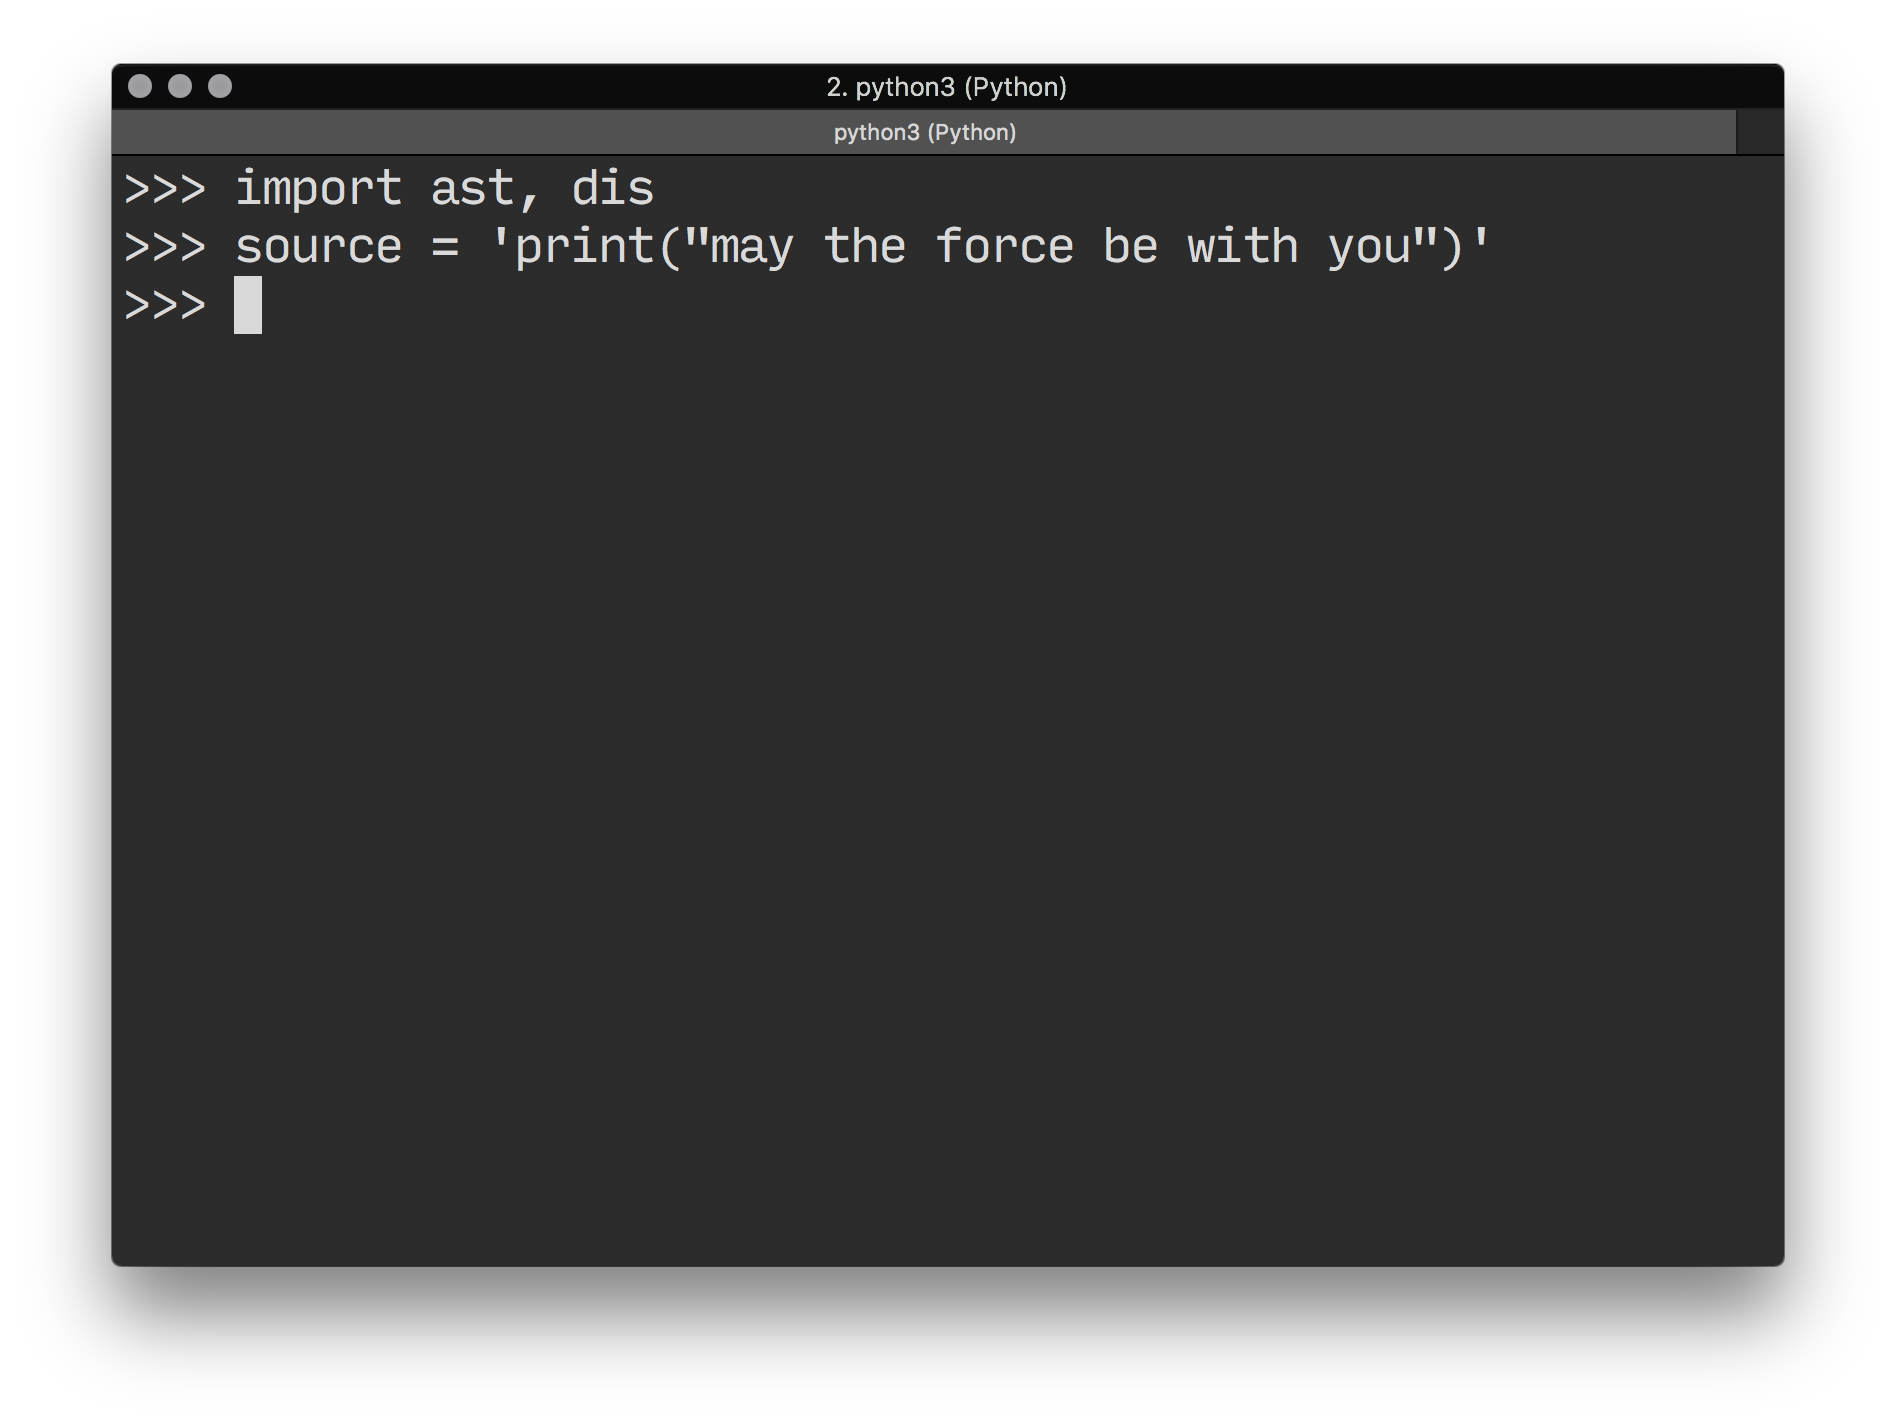
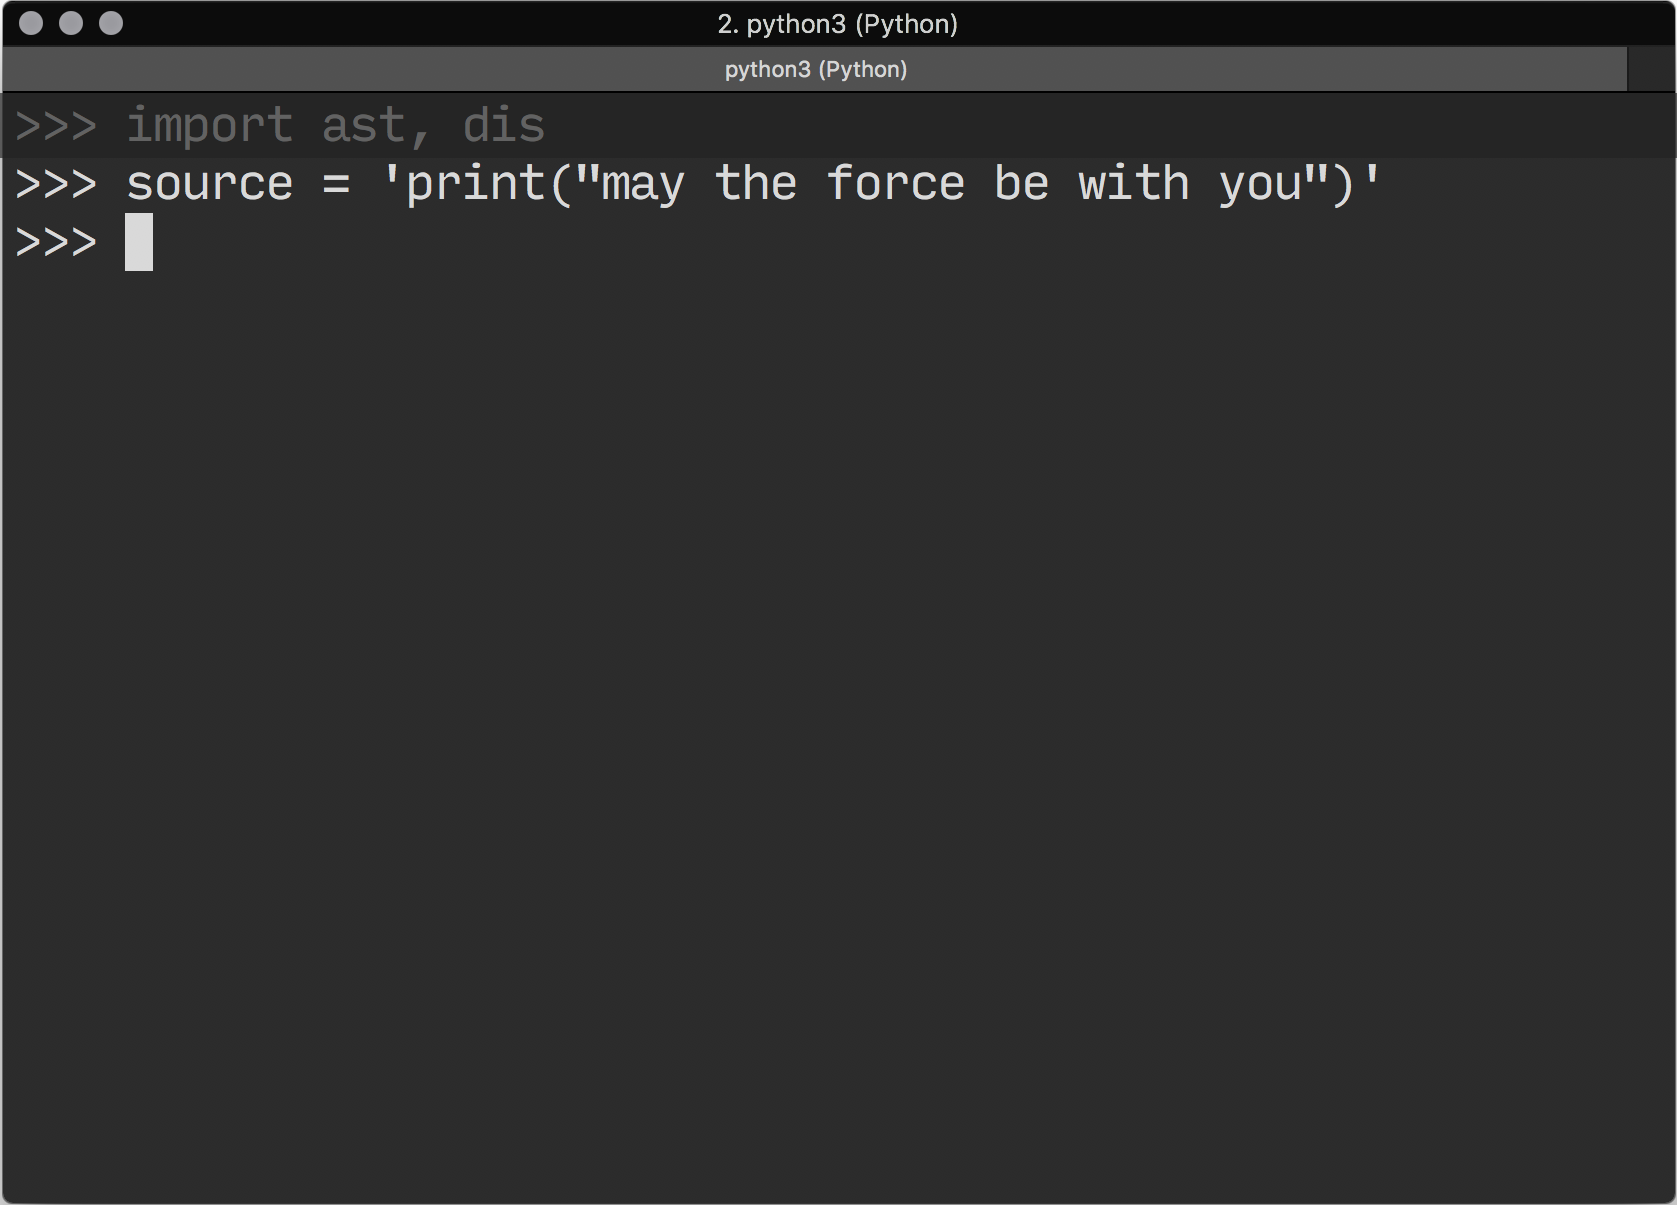
Cropped and added opacity to terminal screenshots. Added 'show code' example.

diff --git a/index.html b/index.html
@@ -638,6 +638,13 @@
                 </section>
 
                 <section class="demo ast-demo" data-transition="none">
+                    <img class="ast-demo__code" data-src="img/demo/3c - dir compiled.png" />
+                    <aside class="notes">
+                        What do we get from our code object?
+                    </aside>
+                </section>
+
+                <section class="demo ast-demo" data-transition="none">
                     <img class="ast-demo__code" data-src="img/demo/4 - bytecode.png" />
                     <aside class="notes">
                         We can peek inside the code object to see a bunch of different things, but most importantly, we can see our raw bytecode...
@@ -666,6 +673,13 @@
                     <img class="ast-demo__code" data-src="img/demo/7 - dis.png" />
                     <aside class="notes">
                         We can use Python's disassembler to help us out. We can now see a clear depiction of what is going on -
+                    </aside>
+                </section>
+
+                <section class="demo ast-demo" data-transition="none">
+                    <img class="ast-demo__code" data-src="img/demo/8 - show code.png" />
+                    <aside class="notes">
+                        And there's a built-in helper function to print out a bunch of this useful information for us.
                         <br><br>
                         But... what does all of this look like in tree form?
                     </aside>
